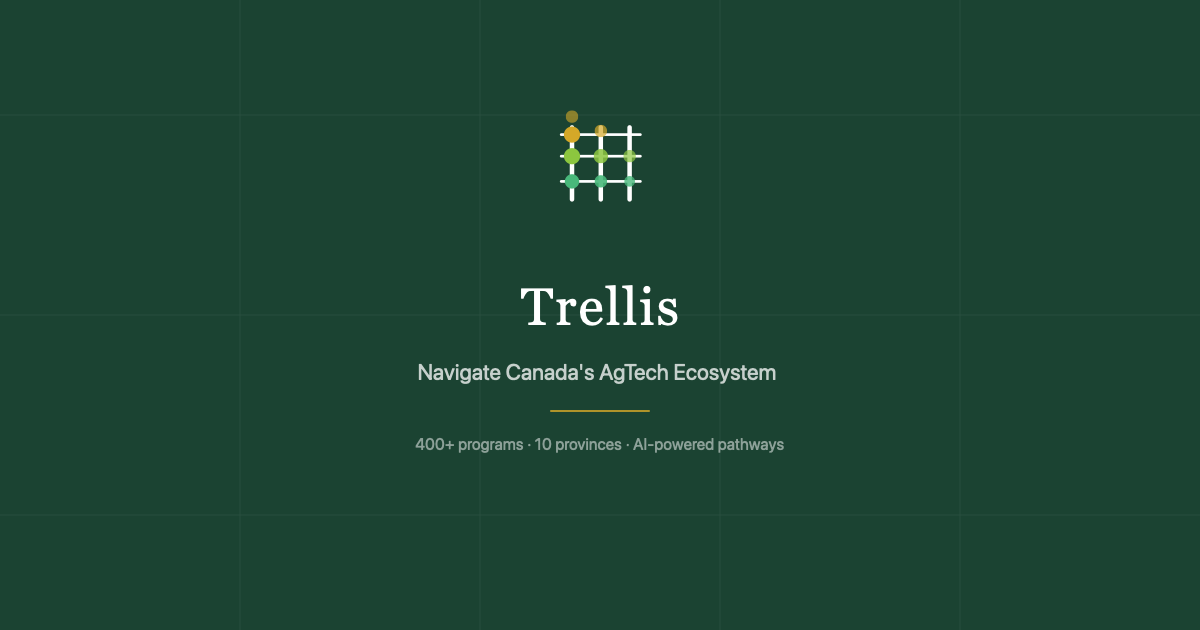
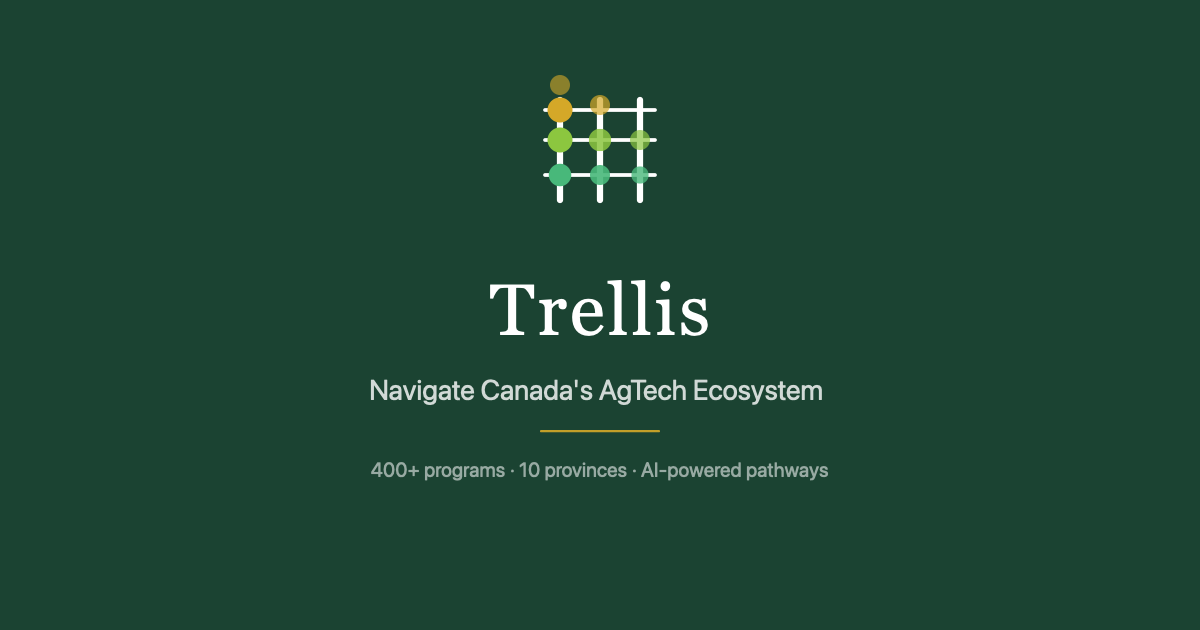
Add backend SEO: robots.txt, sitemap, llms.txt, JSON-LD, larger OG image
- robots.txt: allow search bots, block AI training crawlers
- sitemap.xml: guide crawlers to / and /navigator
- llms.txt: AI-readable site overview for ChatGPT, Perplexity, Claude
- JSON-LD structured data (WebApplication + WebSite schema)
- Canonical URL tag
- Regenerated OG image with larger icon/text to fill iMessage previews
- Vercel cache headers for SEO assets

Changed region(s): [[0.3083, 0.573, 0.7092, 0.7841], [0.4317, 0.1206, 0.555, 0.3317], [0.4008, 0.4222, 0.5858, 0.5429]]

diff --git a/index.html b/index.html
@@ -19,7 +19,39 @@
     <link rel="icon" type="image/svg+xml" href="/brand/trellis-favicon.svg" />
     <link rel="icon" type="image/png" href="/favicon.png" />
     <link rel="apple-touch-icon" href="/apple-touch-icon.png" />
+    <link rel="canonical" href="https://trellisag.ca/" />
     <title>Trellis — Navigate Canada's AgTech Ecosystem</title>
+    <script type="application/ld+json">
+    {
+      "@context": "https://schema.org",
+      "@graph": [
+        {
+          "@type": "WebApplication",
+          "name": "Trellis",
+          "url": "https://trellisag.ca",
+          "description": "AI-powered navigator for Canada's agricultural technology ecosystem. Maps 400+ programs across 10 provinces and builds personalized pathways for agtech founders.",
+          "applicationCategory": "BusinessApplication",
+          "operatingSystem": "Web",
+          "offers": {
+            "@type": "Offer",
+            "price": "0",
+            "priceCurrency": "CAD"
+          },
+          "creator": {
+            "@type": "Person",
+            "name": "Justyn Szymczyk",
+            "url": "https://www.linkedin.com/in/justynszymczyk/"
+          }
+        },
+        {
+          "@type": "WebSite",
+          "name": "Trellis",
+          "url": "https://trellisag.ca",
+          "description": "Navigate Canada's AgTech Ecosystem"
+        }
+      ]
+    }
+    </script>
     <link rel="preconnect" href="https://fonts.googleapis.com" />
     <link rel="preconnect" href="https://fonts.gstatic.com" crossorigin="anonymous" />
     <link href="https://fonts.googleapis.com/css2?family=DM+Sans:opsz,wght@9..40,300;9..40,400;9..40,500;9..40,600;9..40,700;9..40,800&family=DM+Serif+Display&display=swap" rel="stylesheet"/>
